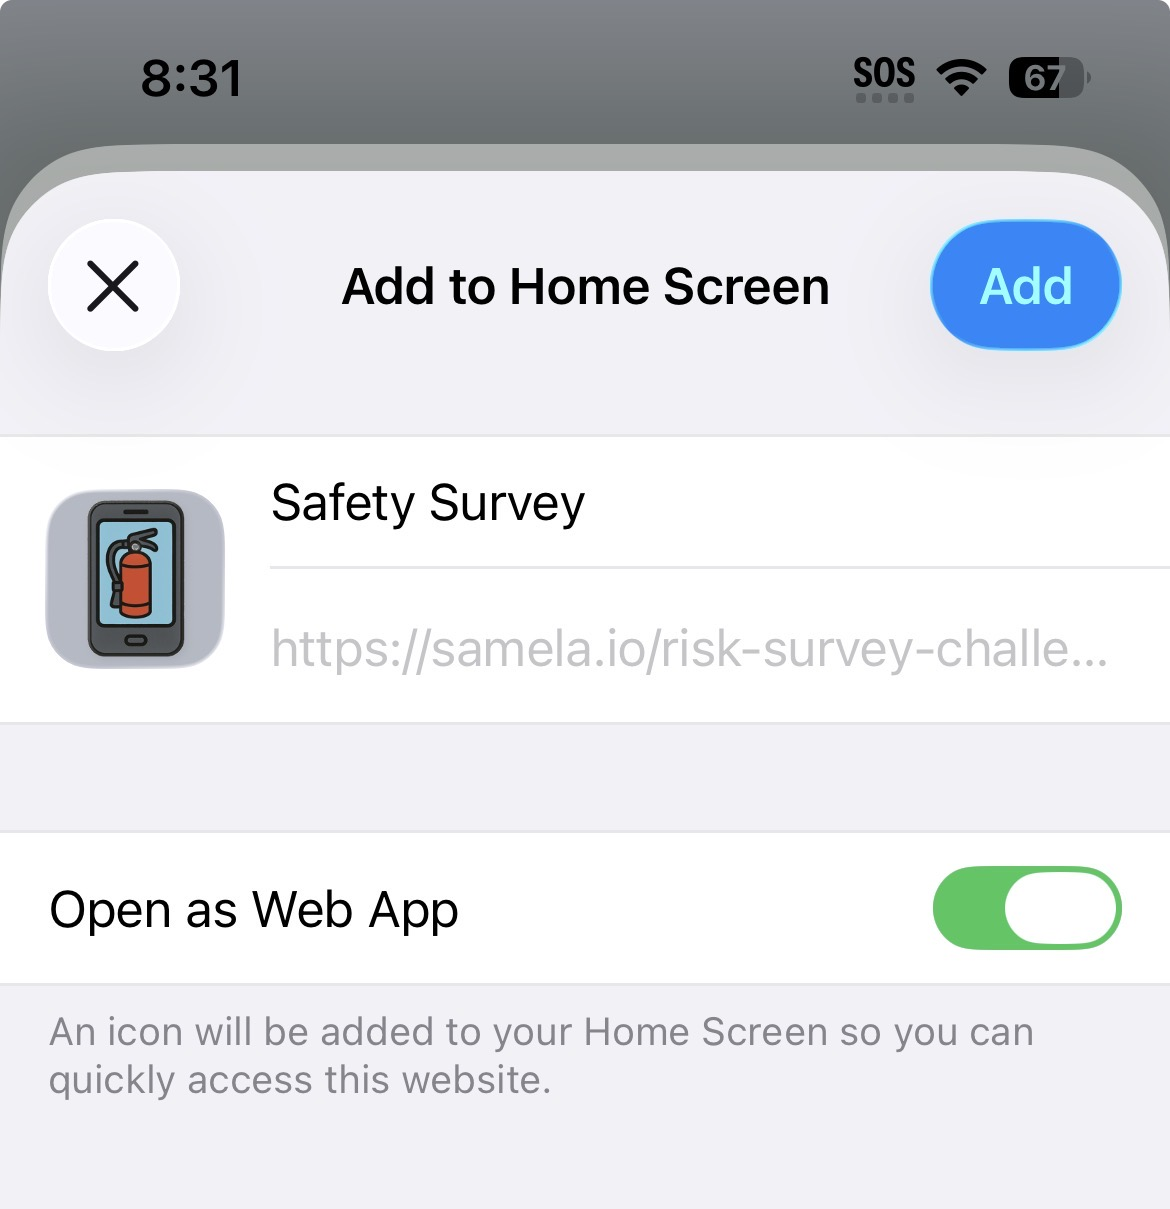
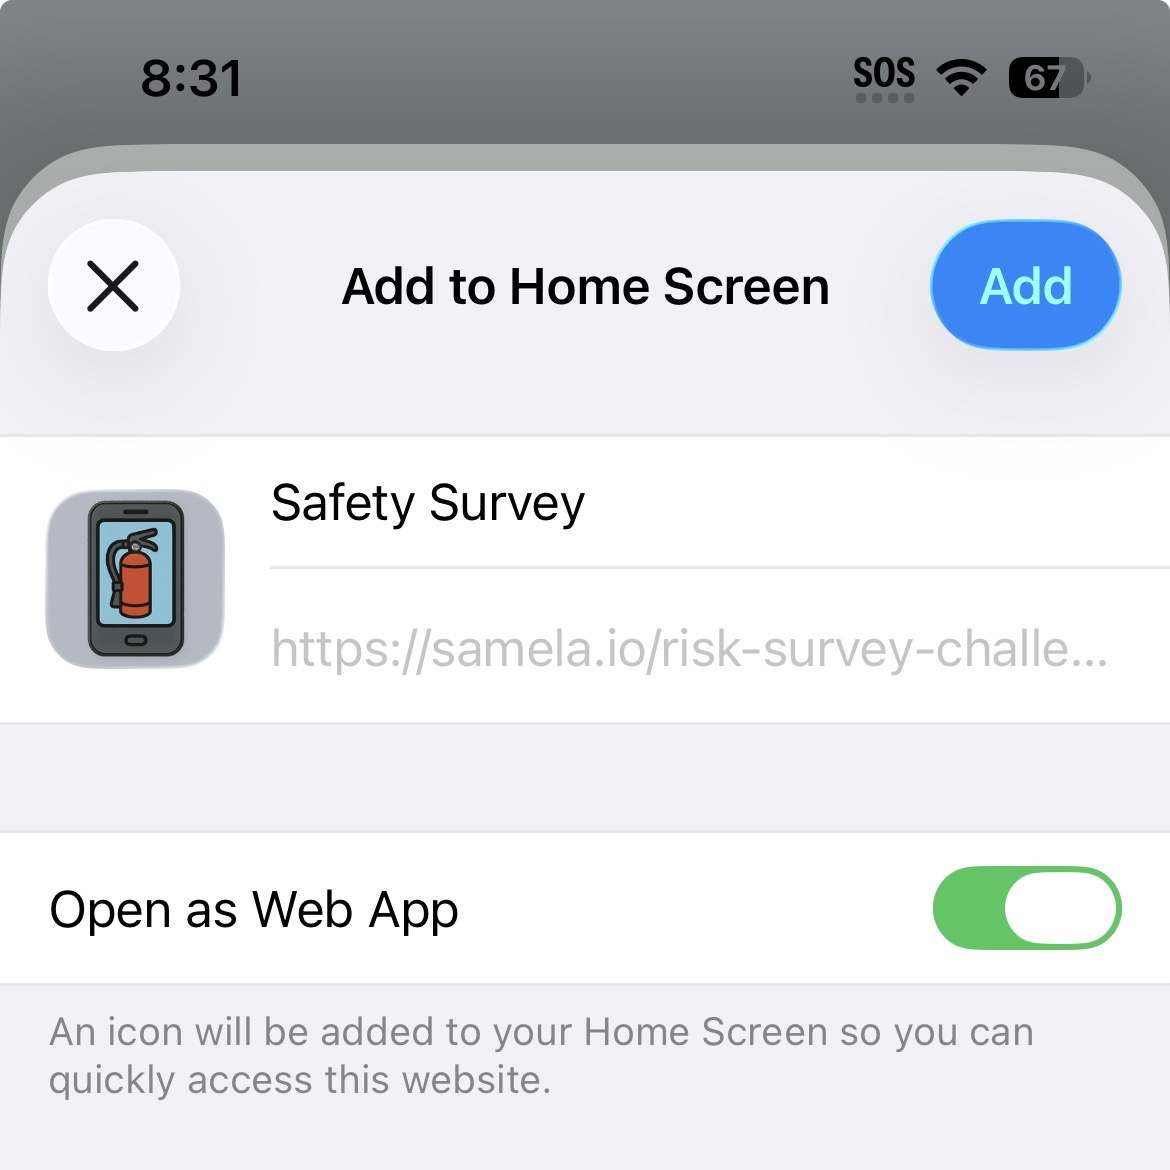
readme formatting

diff --git a/README.md b/README.md
@@ -30,22 +30,22 @@ This app is available as a Progressive Web App (PWA). Add to Home Screen for the
 
 ## Collection Log
 
-In the app, swipe down to access the *Collection Log*. Find an item with your camera and use the capture button to add it to your collection log. Discover all 12 types of safety technology to complete the collection log!
-
-| Item              | Example                                              |
-|-------------------|------------------------------------------------------|
-| Ear Muffs         | <img src="docs/ear_muffs.jpg" width="200px">         |
-| Emergency Lights  | <img src="docs/emergency_lights.jpg" width="200px">  |
-| Exit Sign         | <img src="docs/exit_sign.jpg" width="200px">         |
-| Fire Alarm        | <img src="docs/fire_alarm.jpg" width="200px">        |
-| Fire Extinguisher | <img src="docs/fire_extinguisher.jpg" width="200px"> |
-| Goggles           | <img src="docs/goggles.jpg" width="200px">           |
-| Life Jacket       | <img src="docs/life_jacket.jpg" width="200px">       |
-| Respirator        | <img src="docs/respirator.jpg" width="200px">        |
-| Traffic Cone      | <img src="docs/traffic_cone.jpg" width="200px">      |
-| Water Sensor      | <img src="docs/water_sensor.jpg" width="200px">      |
-| Work Boots        | <img src="docs/work_boots.jpg" width="200px">        |
-| Work Gloves       | <img src="docs/work_gloves.jpg" width="200px">       |
+In the app, swipe down to access the *Collection Log*. Discover an item with your camera and use the capture button to add it to your collection log. Discover all 12 types of safety technology to complete the collection log!
 
 > [!NOTE]
 > The computer vision component of this app uses a custom object recognition model developed specifically for this app. The model runs in the browser with [tensorflow.js](https://www.tensorflow.org/js). The model has only been trained to identify these 12 items with images of these exact items as training data. This means, it may not correctly recognize other versions of these items that are visually different.
+
+| #  | Item              | Example                                              |
+|----|-------------------|------------------------------------------------------|
+| 1  | Ear Muffs         | <img src="docs/ear_muffs.jpg" width="200px">         |
+| 2  | Emergency Lights  | <img src="docs/emergency_lights.jpg" width="200px">  |
+| 3  | Exit Sign         | <img src="docs/exit_sign.jpg" width="200px">         |
+| 4  | Fire Alarm        | <img src="docs/fire_alarm.jpg" width="200px">        |
+| 5  | Fire Extinguisher | <img src="docs/fire_extinguisher.jpg" width="200px"> |
+| 6  | Goggles           | <img src="docs/goggles.jpg" width="200px">           |
+| 7  | Life Jacket       | <img src="docs/life_jacket.jpg" width="200px">       |
+| 8  | Respirator        | <img src="docs/respirator.jpg" width="200px">        |
+| 9  | Traffic Cone      | <img src="docs/traffic_cone.jpg" width="200px">      |
+| 10 | Water Sensor      | <img src="docs/water_sensor.jpg" width="200px">      |
+| 11 | Work Boots        | <img src="docs/work_boots.jpg" width="200px">        |
+| 12 | Work Gloves       | <img src="docs/work_gloves.jpg" width="200px">       |
